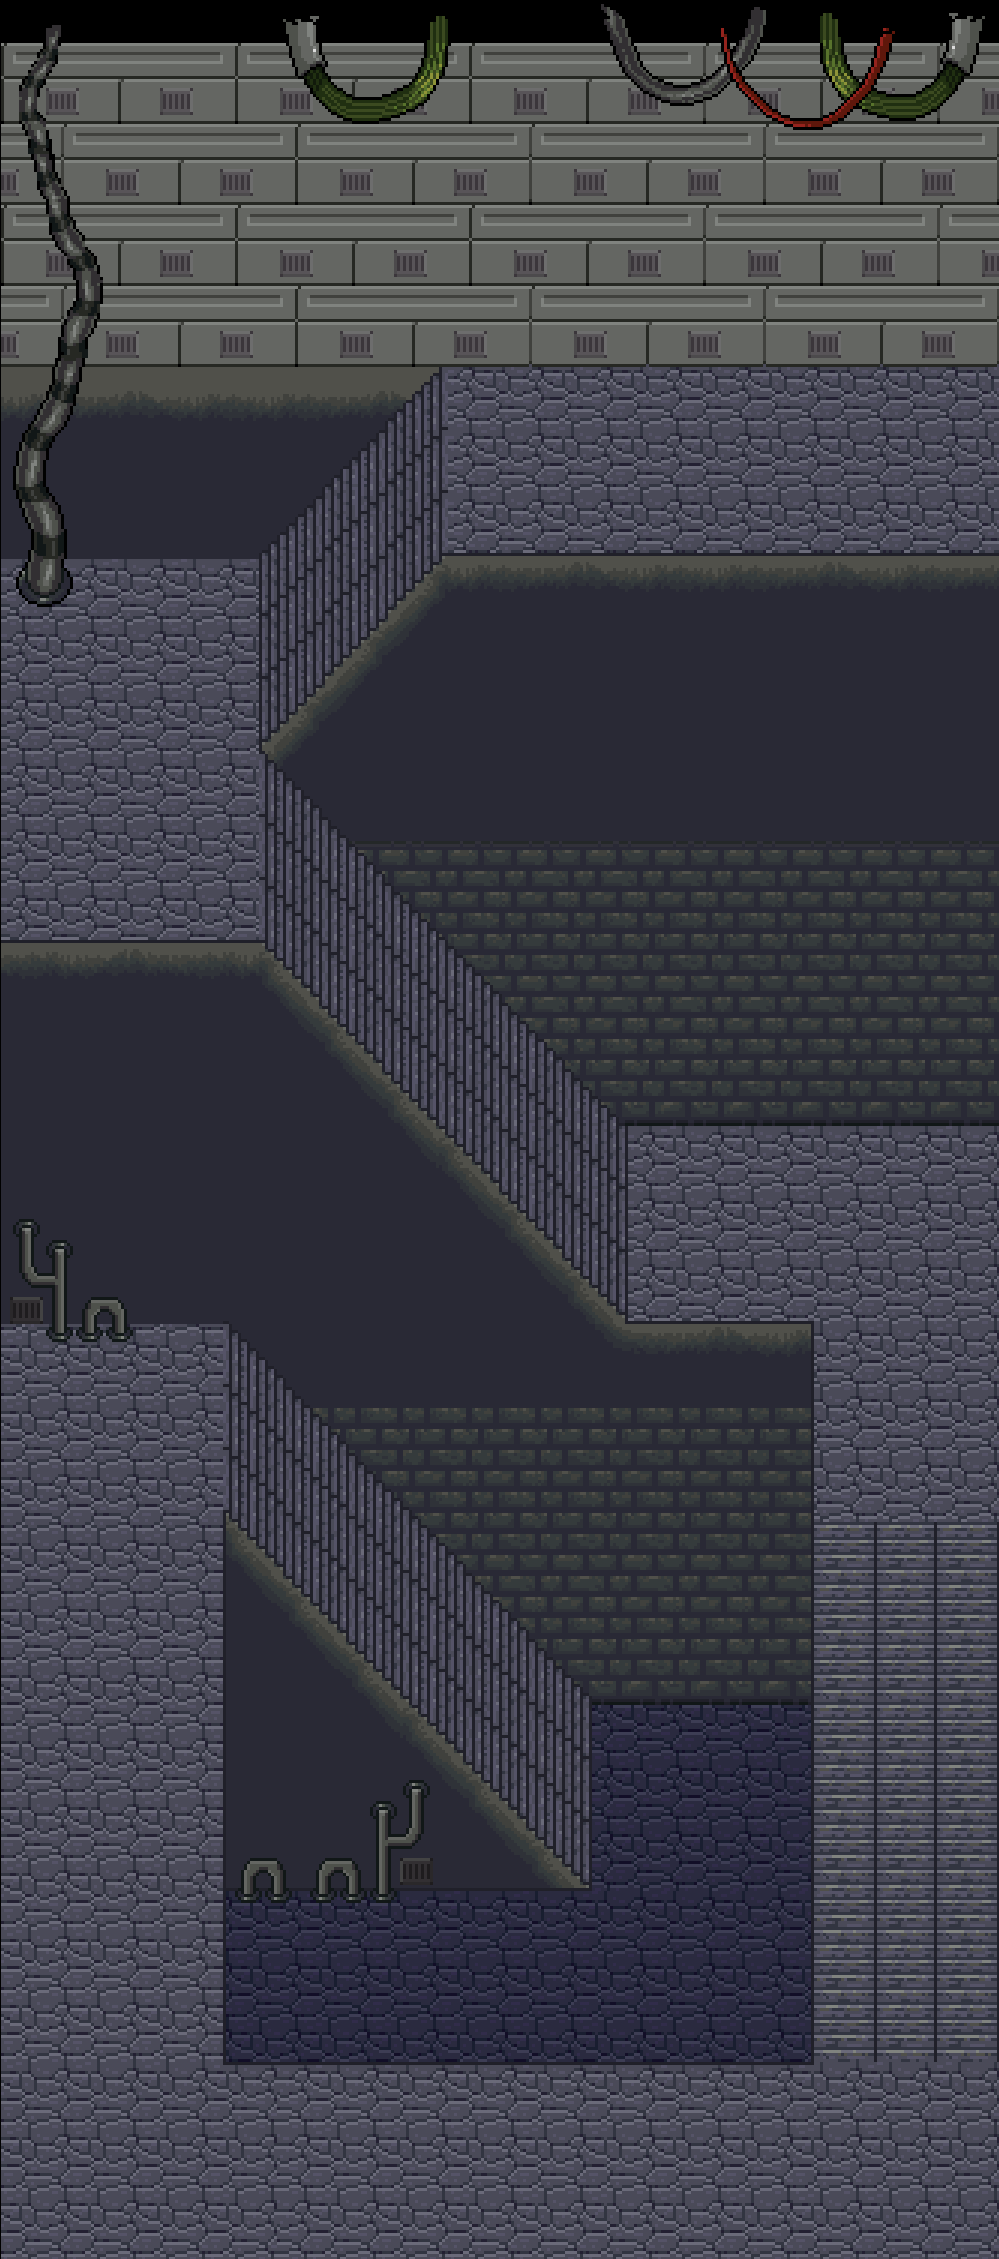
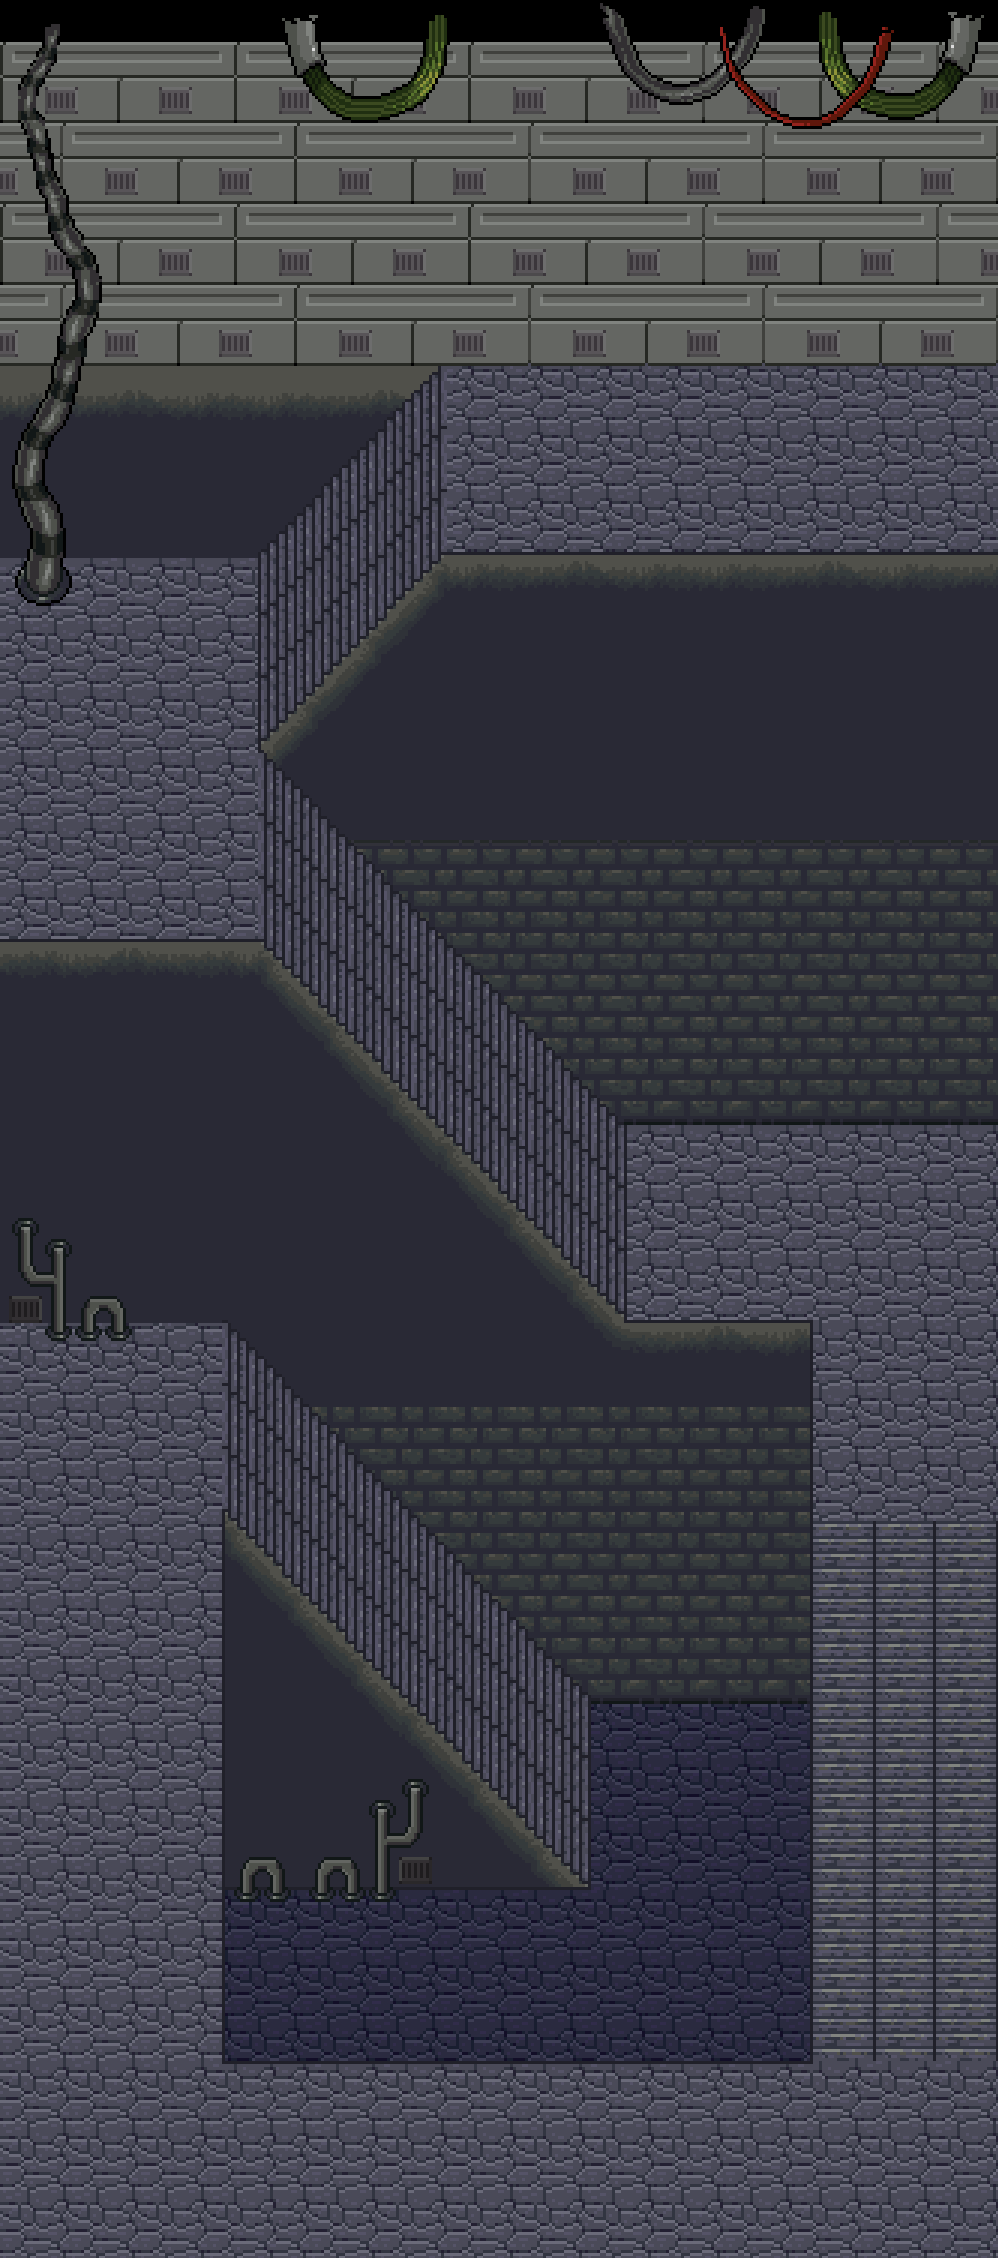
fixed incorrect sprite sheets, all images are now snapped to an imaginary grid of squares size (Stage.scaleX,Stage.scaleY), began ground work to write Strife engine

diff --git a/Animation.js b/Animation.js
@@ -1,8 +1,7 @@
-//no dependencies
 function Animation(name,sheet,sx,sy,colSize,rowSize,startPos,length,frameInterval,loopNum){
 	this.sheet = sheet;
-	this.sx = sx;
-	this.sy = sy;
+	this.x = sx;
+	this.y = sy;
 	this.rowSize = rowSize;
 	this.colSize = colSize;
 	this.startPos = startPos;
@@ -51,14 +50,14 @@ function Animation(name,sheet,sx,sy,colSize,rowSize,startPos,length,frameInterva
 	}
 	
 	this.draw = function(x,y){
-		x+=this.sx;
-		y+=this.sy;
+		x+=this.x;
+		y+=this.y;
 		var colNum = (this.startPos+this.curFrame)%this.numCols;
 		var rowNum = Math.floor((this.startPos+this.curFrame-colNum)/this.numRows);
 		var frameX = colNum*this.colSize;
 		var frameY = rowNum*this.rowSize;
 		
-		stage.drawImage(this.sheet,frameX,frameY,this.colSize,this.rowSize,x,y,this.colSize,this.rowSize);
+		stage.drawImage(this.sheet,stageSnapX(frameX),stageSnapY(frameY),this.colSize,this.rowSize,stageSnapX(x),stageSnapY(y),this.colSize,this.rowSize);
 
 		//sourcerect = frameX,frameY,colSize,rowSize
 		//destrect = x,y,colSize,rowSize
@@ -94,8 +93,8 @@ function Animation(name,sheet,sx,sy,colSize,rowSize,startPos,length,frameInterva
 	}
 	
 	this.isVisuallyUnder = function(x,y){
-		if(x>=this.sx && x<=this.sx+this.colSize){
-			if(y>=this.sy && y<=this.sy+this.rowSize){
+		if(x>=this.x && x<=this.x+this.colSize){
+			if(y>=this.y && y<=this.y+this.rowSize){
 				return true;
 			}
 		}
@@ -104,7 +103,7 @@ function Animation(name,sheet,sx,sy,colSize,rowSize,startPos,length,frameInterva
 	
 	this.serialize = function(output){
 		output = output.concat("<Animation name='"+this.name+"' sheet='"+this.sheet.name+
-								"' sx='"+this.sx+"' sy='"+this.sy+
+								"' sx='"+this.x+"' sy='"+this.y+
 								"' rowSize='"+this.rowSize+"' colSize='"+this.colSize+"' startPos='"+this.startPos+
 								"' length='"+this.length+"' frameInterval='"+this.frameInterval+"' loopNum='"+this.loopNum+"' />");
 		return output;

diff --git a/Jterniabound.js b/Jterniabound.js
@@ -30,7 +30,7 @@ function initialize(){
 	gameDiv.onkeydown = _onkeydown;
 	gameDiv.onkeyup = _onkeyup;
 	Stage = document.getElementById("Stage");	
-	Stage.scaleX = Stage.scaleY = 1;
+	Stage.scaleX = Stage.scaleY = 3;
 	Stage.x = Stage.y = 0;
 	Stage.fps = 30;
 	Stage.fade = 0;
@@ -231,8 +231,9 @@ function performAction(action){
 }
 
 function focusCamera(){
-	Stage.x = Math.max(0,Math.min(focus.x-Stage.width/2/Stage.scaleX,curRoom.width-Stage.width/Stage.scaleX));
-	Stage.y = Math.max(0,Math.min(focus.y-Stage.height/2/Stage.scaleY,curRoom.height-Stage.height/Stage.scaleY));
+	//need to divide these by scaleX and scaleY if repurposed
+	Stage.x = Math.max(0,Math.min(focus.x-Stage.width/2,curRoom.width-Stage.width));
+	Stage.y = Math.max(0,Math.min(focus.y-Stage.height/2,curRoom.height-Stage.height));
 	Stage.x = Math.round(Stage.x/3)*3;
 	Stage.y = Math.round(Stage.y/3)*3;
 }
@@ -328,4 +329,17 @@ function chainAction(){
 		}
 	}
 }    
+
+function stageSnap(object){
+	object.x = Math.round(object.x/Stage.scaleX)*Stage.scaleX;
+	object.y = Math.round(object.y/Stage.scaleY)*Stage.scaleY;
+}
+
+function stageSnapX(x){
+	return Math.round(x/Stage.scaleX)*Stage.scaleX;
+}
+
+function stageSnapY(y){
+	return Math.round(y/Stage.scaleY)*Stage.scaleY;
+}
     

diff --git a/Character.js b/Character.js
@@ -64,6 +64,47 @@ function Character(name,x,y,width,height,sx,sy,sWidth,sHeight,sheet){
 		this.animations.walkRight.frameInterval = 4;
 	}
 	
+	this.tryToMove = function(vx,vy,room){
+	    var i;
+	    var moveMap = room.getMoveFunction(this);
+	    var wasShifted = false;
+	    if(moveMap) { //our motion could be modified somehow
+			l = moveMap(vx, vy);
+			if(vx!=l.x || vy!=l.y){
+				wasShifted = true;
+			}
+			vx = l.x;
+			vy = l.y;
+	    }
+		this.x += vx;
+		this.y += vy;
+		if(this.collidable){
+			for(var i=0;i<room.sprites.length;i++){
+				if(room.sprites[i]!=this){
+				    if(this.collides(room.sprites[i])){
+						this.x -=vx;
+						this.y -=vy;
+						return false;
+					}
+				}
+			}
+			if(!room.isInBounds(this)){
+				if((moveMap && wasShifted) || (!moveMap && room.isBufferable(this))){
+					//console.log("no clip!");
+					var adjustment = room.getMovementBuffer(this);
+					this.x += adjustment.x;
+					this.y += adjustment.y;
+				}else{
+					//console.log("no move!");
+					this.x -=vx;
+					this.y -=vy;
+					return false;
+				}
+			}
+		}
+		return true;
+	}
+	
 	this.getActionQueries = function(){
 		var queries = new Array();
 		if(this.facing=="Front"){

diff --git a/Sprite.js b/Sprite.js
@@ -102,47 +102,6 @@ function Sprite(name,x,y,width,height,dx,dy,depthing,collidable){
 		return this.animation.isVisuallyUnder(x-this.x,y-this.y);
 	}
 	
-	this.tryToMove = function(vx,vy,room){
-	    var i;
-	    var moveMap = room.getMoveFunction(this);
-	    var wasShifted = false;
-	    if(moveMap) {
-	    	//console.log("stairs!");
-			l = moveMap(vx, vy);
-			if(vx!=l.x || vy!=l.y){
-				wasShifted = true;
-			}
-			vx = l.x;
-			vy = l.y;
-	    }
-		this.x += vx;
-		this.y += vy;
-		if(this.collidable){
-			for(i=0;i<room.sprites.length;i++){
-				if(room.sprites[i]!=this){
-				    if(this.collides(room.sprites[i])){
-						this.x -=vx;
-						this.y -=vy;
-						return false;
-					}
-				}
-			}
-			if(!room.isInBounds(this)){
-				if((moveMap && wasShifted) || (!moveMap && room.isBufferable(this))){
-					//console.log("no clip!");
-					var adjustment = room.getMovementBuffer(this);
-					this.x += adjustment.x;
-					this.y += adjustment.y;
-				}else{
-					//console.log("no move!");
-					this.x -=vx;
-					this.y -=vy;
-					return false;
-				}
-			}
-		}
-		return true;
-	}
 	
 	this.addAction = function(action){
 		this.actions.push(action);
